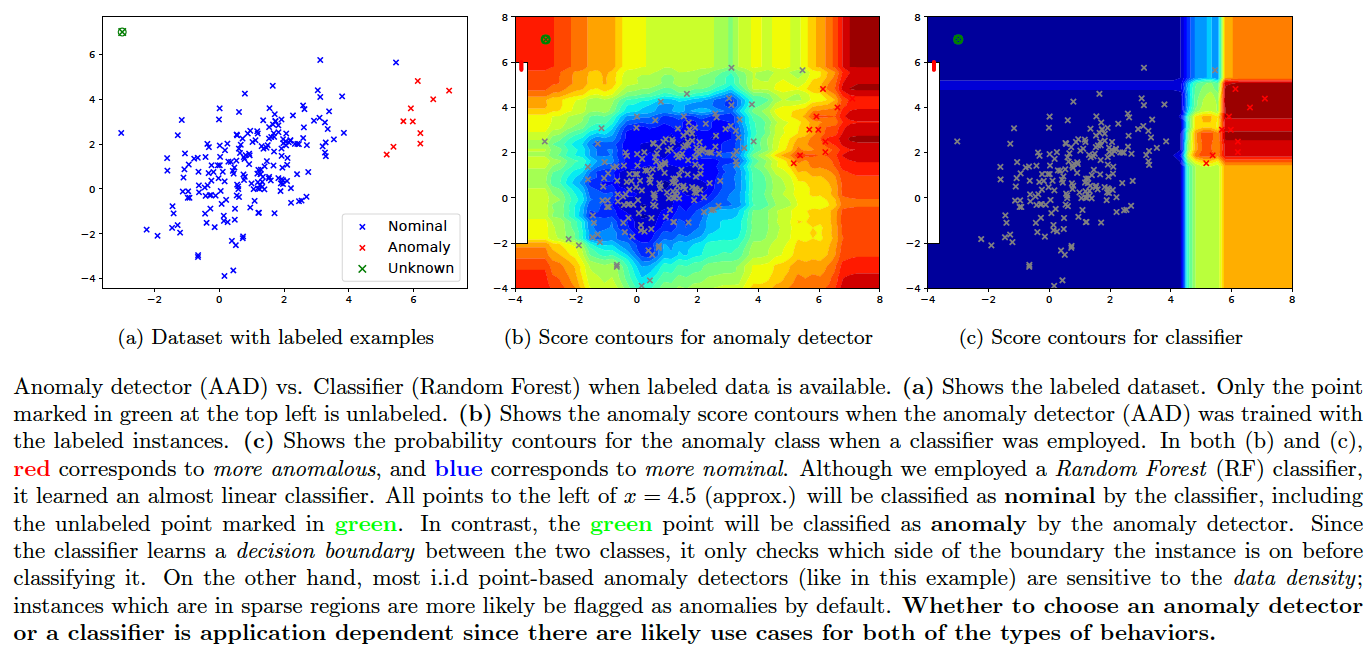
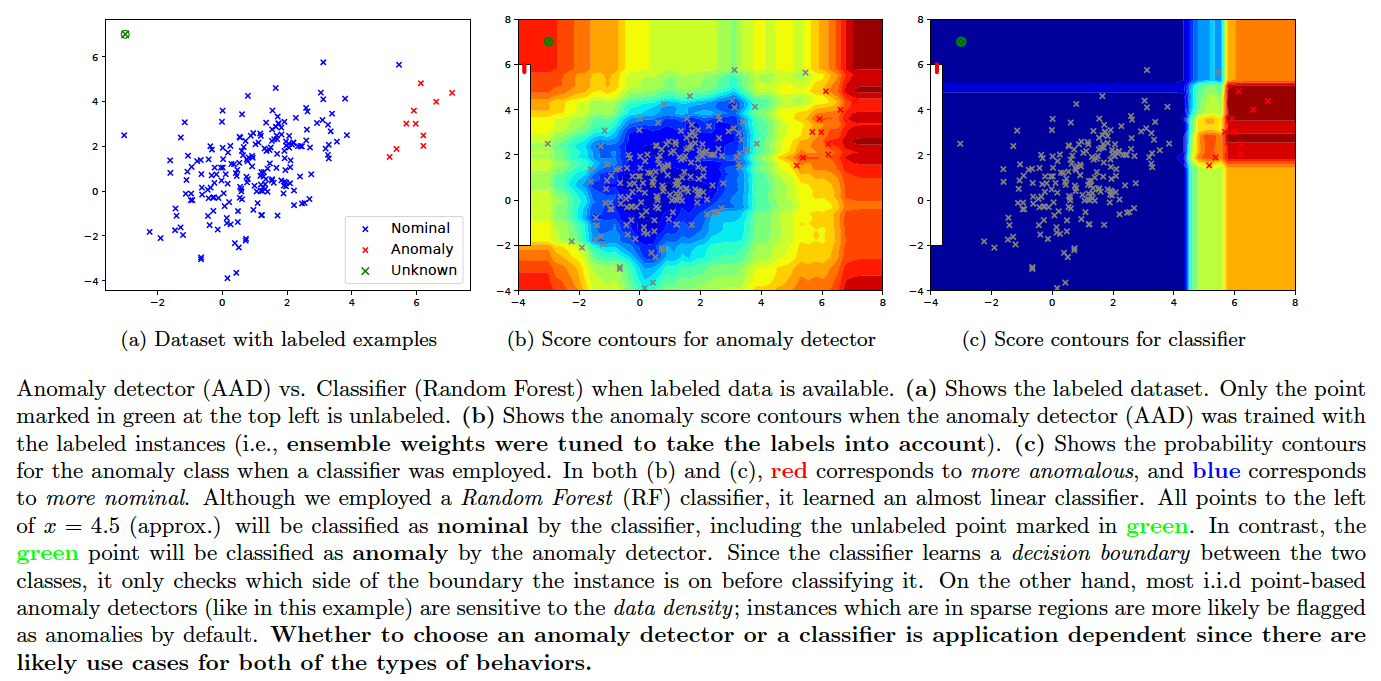
clarification

diff --git a/documentation/anomaly_classifier/anomaly_classifier.tex b/documentation/anomaly_classifier/anomaly_classifier.tex
@@ -32,7 +32,7 @@
     	\caption{Score contours for classifier}
     	\label{fig:rf}
     \end{subfigure}
-	\caption{Anomaly detector (AAD) vs. Classifier (Random Forest) when labeled data is available. {\bf (a)} Shows the labeled dataset. Only the point marked in green at the top left is unlabeled. {\bf (b)} Shows the anomaly score contours when the anomaly detector (AAD) was trained with the labeled instances. {\bf (c)} Shows the probability contours for the anomaly class when a classifier was employed. In both (b) and (c), \textcolor{red}{\textbf{red}} corresponds to \textit{more anomalous}, and \textcolor{blue}{\textbf{blue}} corresponds to \textit{more nominal}. Although we employed a \textit{Random Forest} (RF) classifier, it learned an almost linear classifier. All points to the left of $x=4.5$ (approx.) will be classified as \textbf{nominal} by the classifier, including the unlabeled point marked in \textcolor{green}{\textbf{green}}. In contrast, the \textcolor{green}{\textbf{green}} point will be classified as \textbf{anomaly} by the anomaly detector. Since the classifier learns a \textit{decision boundary} between the two classes, it only checks which side of the boundary the instance is on before classifying it. On the other hand, most i.i.d point-based anomaly detectors (like in this example) are sensitive to the \textit{data density}; instances which are in sparse regions are more likely be flagged as anomalies by default. \textbf{Whether to choose an anomaly detector or a classifier is application dependent since there are likely use cases for both of the types of behaviors.}}
+	\caption{Anomaly detector (AAD) vs. Classifier (Random Forest) when labeled data is available. {\bf (a)} Shows the labeled dataset. Only the point marked in green at the top left is unlabeled. {\bf (b)} Shows the anomaly score contours when the anomaly detector (AAD) was trained with the labeled instances (i.e., \textbf{ensemble weights were tuned to take the labels into account}). {\bf (c)} Shows the probability contours for the anomaly class when a classifier was employed. In both (b) and (c), \textcolor{red}{\textbf{red}} corresponds to \textit{more anomalous}, and \textcolor{blue}{\textbf{blue}} corresponds to \textit{more nominal}. Although we employed a \textit{Random Forest} (RF) classifier, it learned an almost linear classifier. All points to the left of $x=4.5$ (approx.) will be classified as \textbf{nominal} by the classifier, including the unlabeled point marked in \textcolor{green}{\textbf{green}}. In contrast, the \textcolor{green}{\textbf{green}} point will be classified as \textbf{anomaly} by the anomaly detector. Since the classifier learns a \textit{decision boundary} between the two classes, it only checks which side of the boundary the instance is on before classifying it. On the other hand, most i.i.d point-based anomaly detectors (like in this example) are sensitive to the \textit{data density}; instances which are in sparse regions are more likely be flagged as anomalies by default. \textbf{Whether to choose an anomaly detector or a classifier is application dependent since there are likely use cases for both of the types of behaviors.}}
 	\label{fig:regression}
 \end{figure}
 
